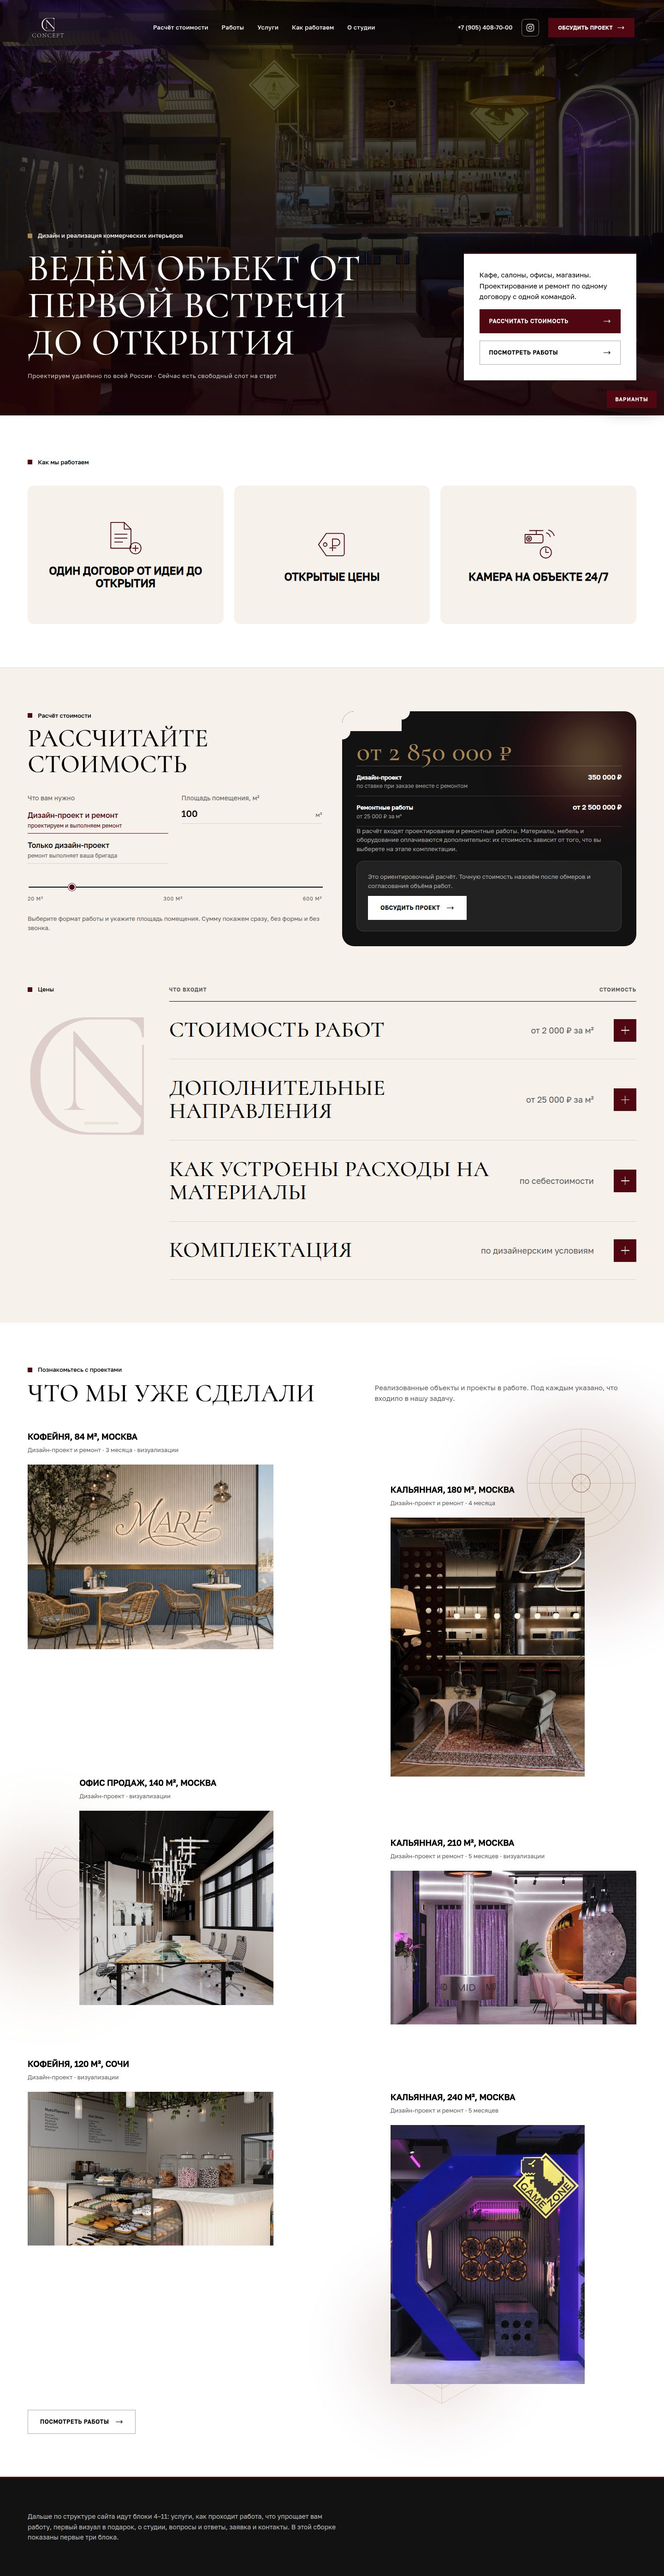
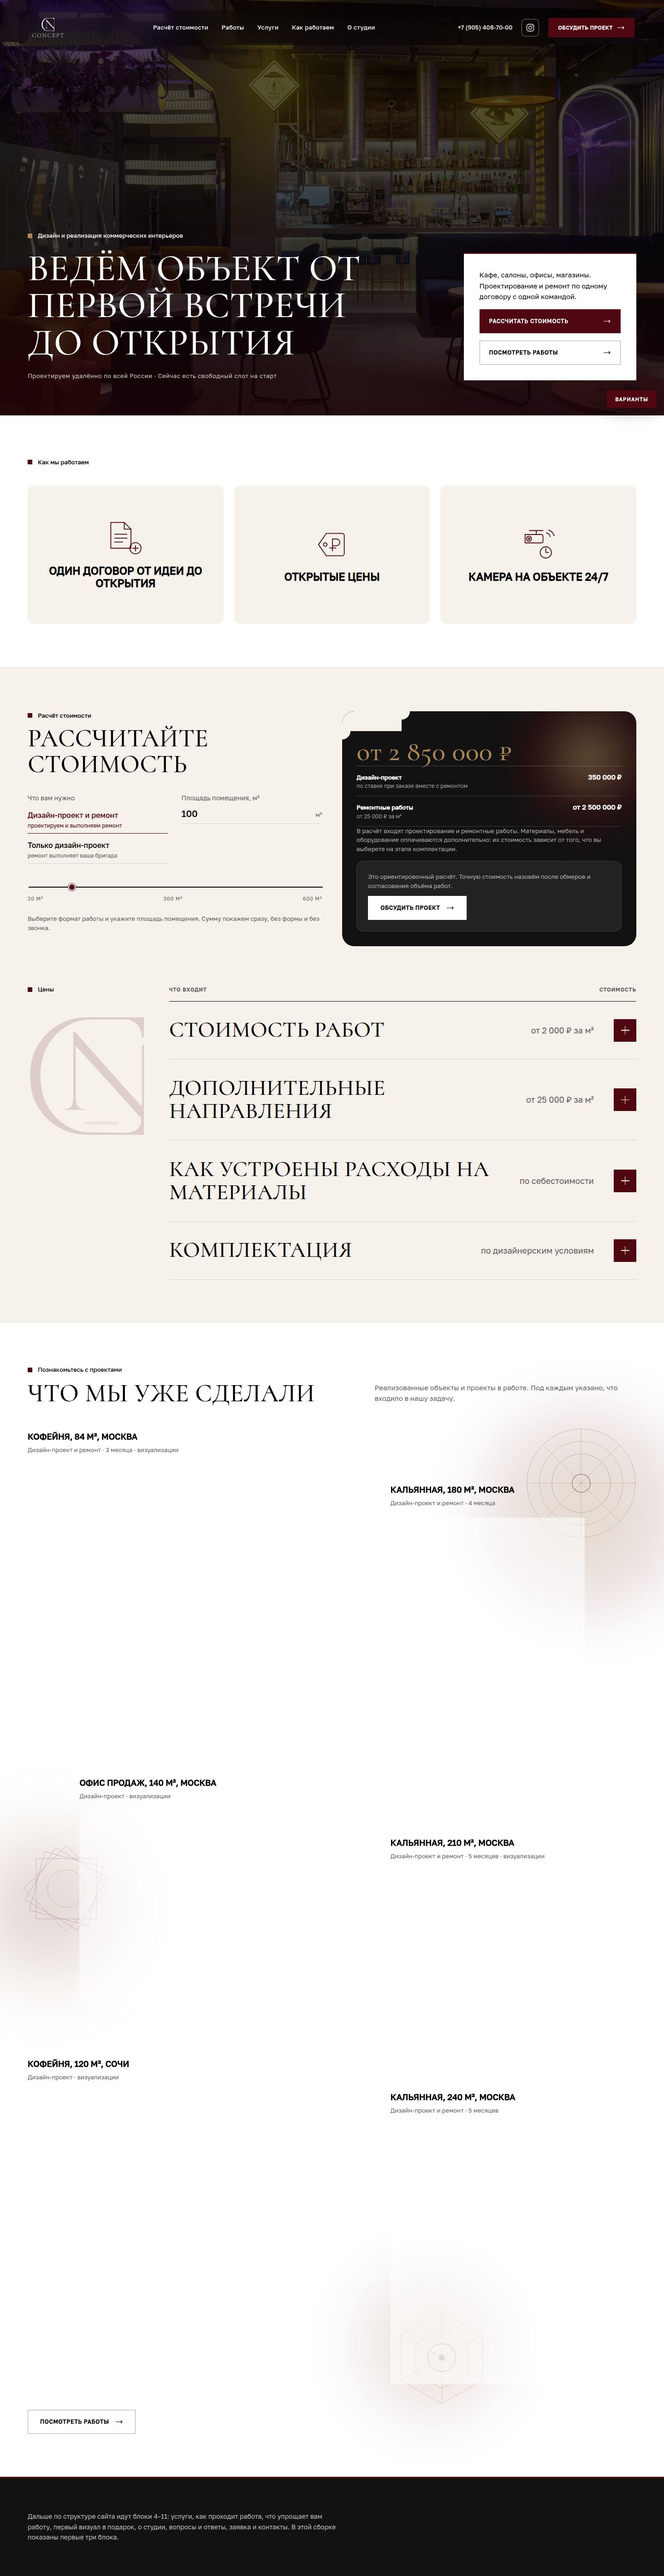
Плитки второго экрана гаснут ступенями, варианты меняются без перезагрузки
- Шапка в сжатом виде стала шире: кнопка больше не выезжает за правый
  край островка (проверено на 800–1920 px).
- Стрелка «листайте вниз» крупнее и поднята выше над нижним краем.
- Плитки плотнее по заливке, но кадр за ними по-прежнему читается.
- Угасание пошаговое: плитка не пропадает с первой прокрутки, а
  бледнеет ступенями и в своём темпе. Примерно треть плиток до конца
  не гаснет и остаётся еле заметной — как в референсе.
- Выбор варианта блока применяется на месте, без перезагрузки: соседние
  блоки остаются как есть, поэтому варианты можно смешивать.

Claude-Session: https://claude.ai/code/session_012qg78my7HbumokZeYQ7QZc

diff --git a/assets/js/ui.js b/assets/js/ui.js
@@ -96,10 +96,16 @@
       if (!button) return;
       var block = button.closest('.switch__row').dataset.block;
       var group = multi.filter(function (g) { return g.dataset.block === block; })[0];
-      chosen[group.dataset.block] = Number(button.dataset.set);
-      try { localStorage.setItem(STORE, JSON.stringify(chosen)); } catch (e) { /* приватный режим */ }
+      /* Блок меняется на месте: соседние блоки остаются как есть,
+         поэтому варианты можно смешивать. Прокрутка сбрасывается —
+         высота у вариантов разная. */
       window.scrollTo(0, 0);
-      location.reload();
+      applyVariant(group, Number(button.dataset.set));
+      markActive();
+      buildGrid();
+      syncSequence();
+      syncFull();
+      syncHeader();
     });
 
     toggle.addEventListener('click', function () {
@@ -121,8 +127,8 @@
      Первый экран, вариант 2: кадр и строка меняются по мере прокрутки,
      а сетка плиток гаснет поштучно.
      ------------------------------------------------------------------ */
-  var tiles = [];          // клетки, отсортированные по моменту угасания
-  var tilesGone = 0;       // сколько уже погасло
+  var tiles = [];          // клетки со своим темпом угасания
+  var LEVELS = 5;          // ступеней от полной заливки до нуля
 
   /* Одна и та же последовательность при каждой сборке: плитки гаснут
      вразнобой, но предсказуемо, без дёрганья при изменении размера. */
@@ -149,33 +155,38 @@
 
     var html = '';
     for (var i = 0; i < total; i++) {
-      var r = scatter(i);
-      /* Примерно каждая двенадцатая клетка остаётся до конца */
-      var last = scatter(i + 7777) > 0.92;
-      /* Заливка слабая, чтобы кадр читался сквозь сетку */
-      var alpha = (0.16 + scatter(i + 31) * 0.2).toFixed(3);
-      html += '<i data-t="' + (i % 5) +
-              '" style="--a:' + alpha + '"' +
-              (last ? ' class="is-last"' : '') + '></i>';
+      /* Заливка плотная, но кадр за сеткой всё же читается */
+      var alpha = (0.34 + scatter(i + 31) * 0.24).toFixed(3);
+      html += '<i data-t="' + (i % 5) + '" data-k="0" style="--a:' + alpha + '"></i>';
     }
     grid.innerHTML = html;
 
     tiles = [].slice.call(grid.children).map(function (el, i) {
-      /* Плитки с пометкой is-last не гаснут: порог заведомо больше единицы */
-      return { el: el, at: el.classList.contains('is-last') ? 2 : 0.04 + scatter(i) * 0.92 };
-    }).sort(function (a, b) { return a.at - b.at; });
-    tilesGone = 0;
+      return {
+        el: el,
+        /* с какой прокрутки плитка начинает бледнеть */
+        from: 0.02 + scatter(i) * 0.44,
+        /* насколько прокрутки хватает на одну ступень */
+        step: 0.07 + scatter(i + 517) * 0.06,
+        /* примерно треть плиток не гаснет совсем: к финалу они
+           остаются на последней видимой ступени */
+        floor: scatter(i + 7777) < 0.36 ? LEVELS - 1 : LEVELS,
+        k: 0
+      };
+    });
   }
 
   function fadeTiles(progress) {
     if (!tiles || !tiles.length) return;
-    while (tilesGone < tiles.length && tiles[tilesGone].at <= progress) {
-      tiles[tilesGone].el.classList.add('is-gone');
-      tilesGone++;
-    }
-    while (tilesGone > 0 && tiles[tilesGone - 1].at > progress) {
-      tilesGone--;
-      tiles[tilesGone].el.classList.remove('is-gone');
+    for (var i = 0; i < tiles.length; i++) {
+      var t = tiles[i];
+      var k = Math.floor((progress - t.from) / t.step);
+      if (k < 0) k = 0;
+      if (k > t.floor) k = t.floor;
+      if (k !== t.k) {
+        t.k = k;
+        t.el.setAttribute('data-k', String(k));
+      }
     }
   }
 

diff --git a/assets/css/krasnov.css b/assets/css/krasnov.css
@@ -169,8 +169,11 @@ ul{ padding:0; list-style:none }
     opacity:0; max-width:0; margin-inline-start:0; pointer-events:none;
   }
   .hdr-shrink-mode .hdr.is-shrink .hdr__nav{ padding-inline-start:0 }
+  /* Ширина под оставшийся набор: логотип, Instagram и кнопка.
+     Уже — и кнопка выезжает за правый край островка. */
   .hdr-shrink-mode .hdr.is-shrink .hdr__inner{
-    max-width:clamp(300px,26vw,360px);
+    max-width:clamp(392px,30vw,440px);
+    padding-inline:26px 22px;
   }
 }
 /* Ниже первого экрана фон светлый, поэтому стекло уплотняется —
@@ -810,8 +813,9 @@ ul{ padding:0; list-style:none }
 
 /* ---------- Плитки поверх кадра ------------------------------
    Клетки квадратные, расставляет их скрипт под размер экрана.
-   Заливка слабая — кадр читается сквозь сетку. По мере прокрутки
-   плитки гаснут поштучно, к последнему кадру остаются единицы.   */
+   Кадр читается сквозь сетку. По мере прокрутки плитки бледнеют
+   ступенями и вразнобой; примерно треть остаётся до конца — еле
+   заметными, но видимыми.                                        */
 .heroseq__grid{
   position:absolute; inset:0; z-index:1; overflow:hidden;
   display:grid;
@@ -820,12 +824,16 @@ ul{ padding:0; list-style:none }
 }
 .heroseq__grid i{
   display:block;
-  opacity:var(--a,.26);
-  transition:opacity .7s cubic-bezier(.4,0,.2,1);
+  opacity:var(--a,.4);
+  transition:opacity .8s cubic-bezier(.4,0,.2,1);
 }
-.heroseq__grid i.is-gone{ opacity:0 }
-/* Плитки, которые остаются до конца, к финалу еле заметны */
-.heroseq[data-step="3"] .heroseq__grid i.is-last{ opacity:calc(var(--a,.26) * .45) }
+/* Ступени угасания: плитка не пропадает с первой прокрутки, а бледнеет
+   шаг за шагом. Ступень выставляет скрипт, у каждой плитки свой темп. */
+.heroseq__grid i[data-k="1"]{ opacity:calc(var(--a,.4) * .62) }
+.heroseq__grid i[data-k="2"]{ opacity:calc(var(--a,.4) * .38) }
+.heroseq__grid i[data-k="3"]{ opacity:calc(var(--a,.4) * .22) }
+.heroseq__grid i[data-k="4"]{ opacity:calc(var(--a,.4) * .16) }
+.heroseq__grid i[data-k="5"]{ opacity:0 }
 
 .heroseq__grid i[data-t="0"]{ background:var(--wine) }
 .heroseq__grid i[data-t="1"]{ background:var(--brass) }
@@ -839,8 +847,8 @@ ul{ padding:0; list-style:none }
 
 /* ---------- Подсказка «листайте вниз» ------------------------ */
 .scrollcue{
-  position:absolute; z-index:3; left:50%; bottom:clamp(18px,2.4vw,34px);
-  width:clamp(40px,3.4vw,50px); height:clamp(40px,3.4vw,50px);
+  position:absolute; z-index:3; left:50%; bottom:clamp(40px,5vw,72px);
+  width:clamp(56px,4.6vw,70px); height:clamp(56px,4.6vw,70px);
   transform:translateX(-50%); color:#fff; pointer-events:none;
   opacity:.9; transition:opacity .5s ease;
 }
